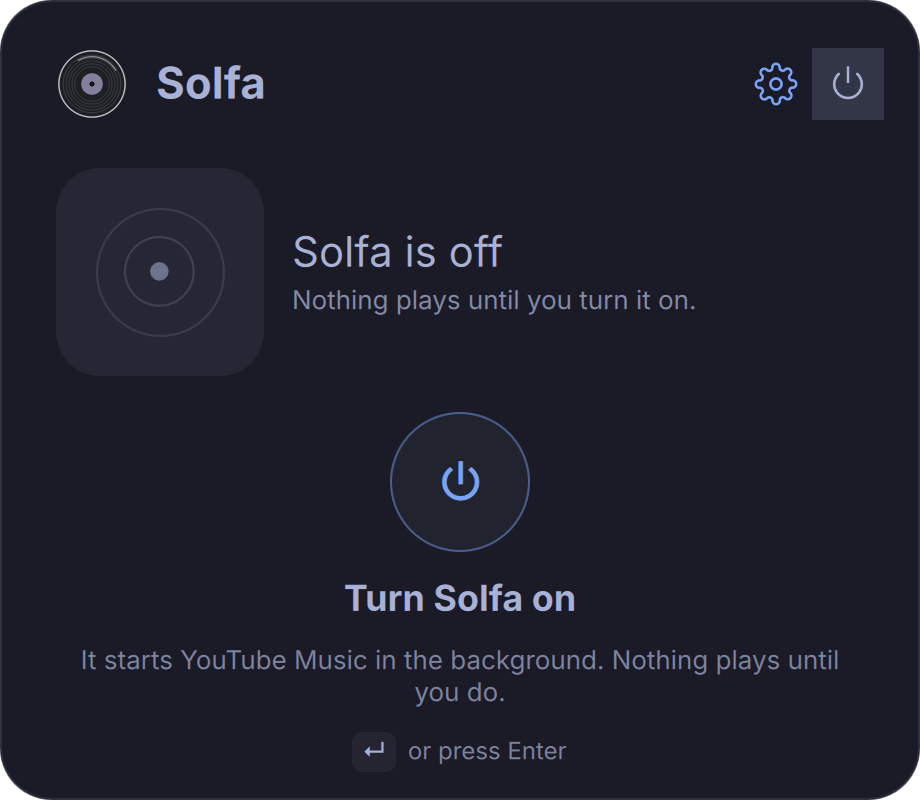
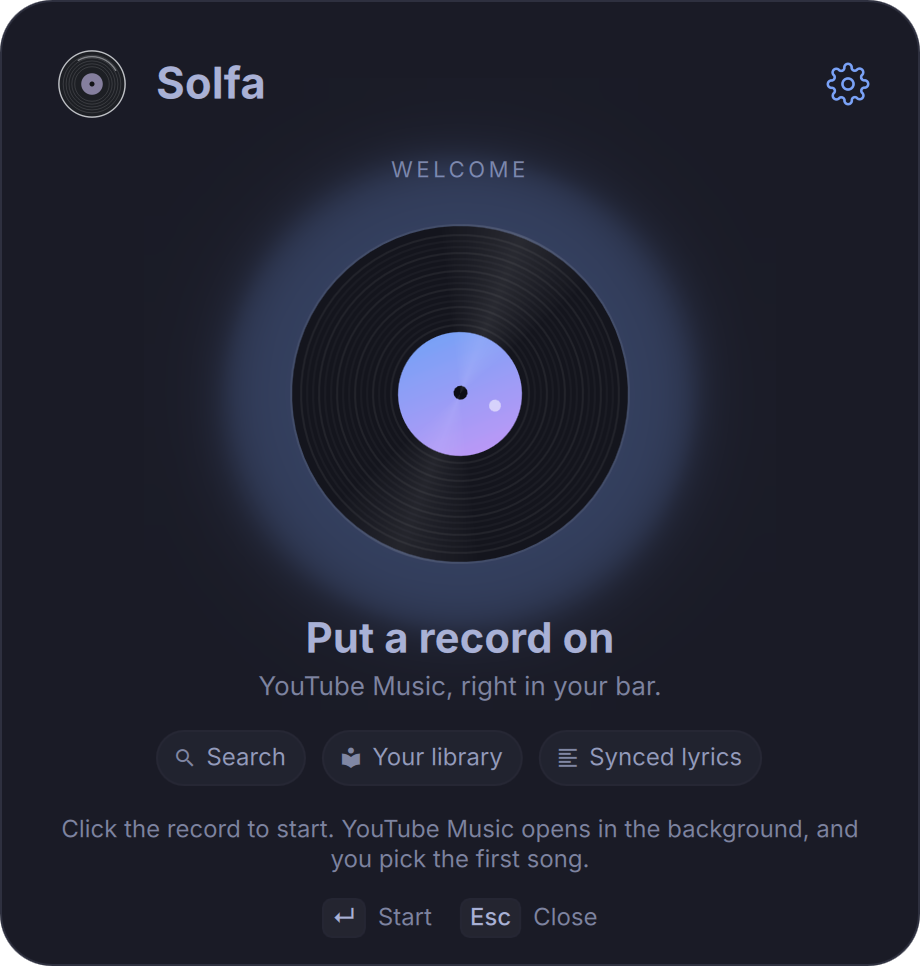
PR shots: first run signed out, and the starting state; all shots redone from the final build

diff --git a/tests/qml/BarOffShots.qml b/tests/qml/BarOffShots.qml
@@ -88,6 +88,8 @@ ShellRoot {
 
   QtObject {
     id: fakeSvc
+    property bool starting: false
+    property bool signInWhenUp: false
     property string lastTitle: "Glass Harbour"
     property string lastArtist: "The Quiet Tides"
     property string lastAlbum: "Low Light"
@@ -258,7 +260,18 @@ ShellRoot {
       function () { var cv = find(stage, "offCover"); tc.mouseMove(cv, 1, 1); tc.mouseMove(cv, cv.width / 2, cv.height / 2); next() },
       function () { save(card(), "after-panel-hover.png") },
       function () { tc.mouseMove(stage, 1, 1); fakeSvc.lastTitle = ""; fakeSvc.lastThumb = ""; next() },
-      function () { save(card(), "after-panel-no-song.png") }
+      function () { save(card(), "after-panel-no-song.png") },
+      function () { fakeSvc.signedIn = false; fakeSvc.account = { signedIn: false, host: "" }; next() },
+      function () { save(card(), "after-panel-first-run-signed-out.png") },
+      // Play on pressed: the engine starts and brings the song back; the hero shows it, loading.
+      function () {
+        fakeSvc.signedIn = true; fakeSvc.account = { signedIn: true, host: "music.youtube.com" }
+        fakeSvc.lastTitle = "Glass Harbour"; fakeSvc.lastThumb = "file://" + Quickshell.env("SOLFA_SHOT_COVER")
+        fakeSvc.engine = { status: "starting", error: "", signedIn: true, host: "", wantRunning: true }
+        fakeSvc.closed = false; fakeSvc.starting = true; fakeSvc.engineLine = ""
+        next()
+      },
+      function () { save(card(), "after-panel-starting.png") }
     ]
     steps = before ? beforeSteps : afterSteps
     next()
